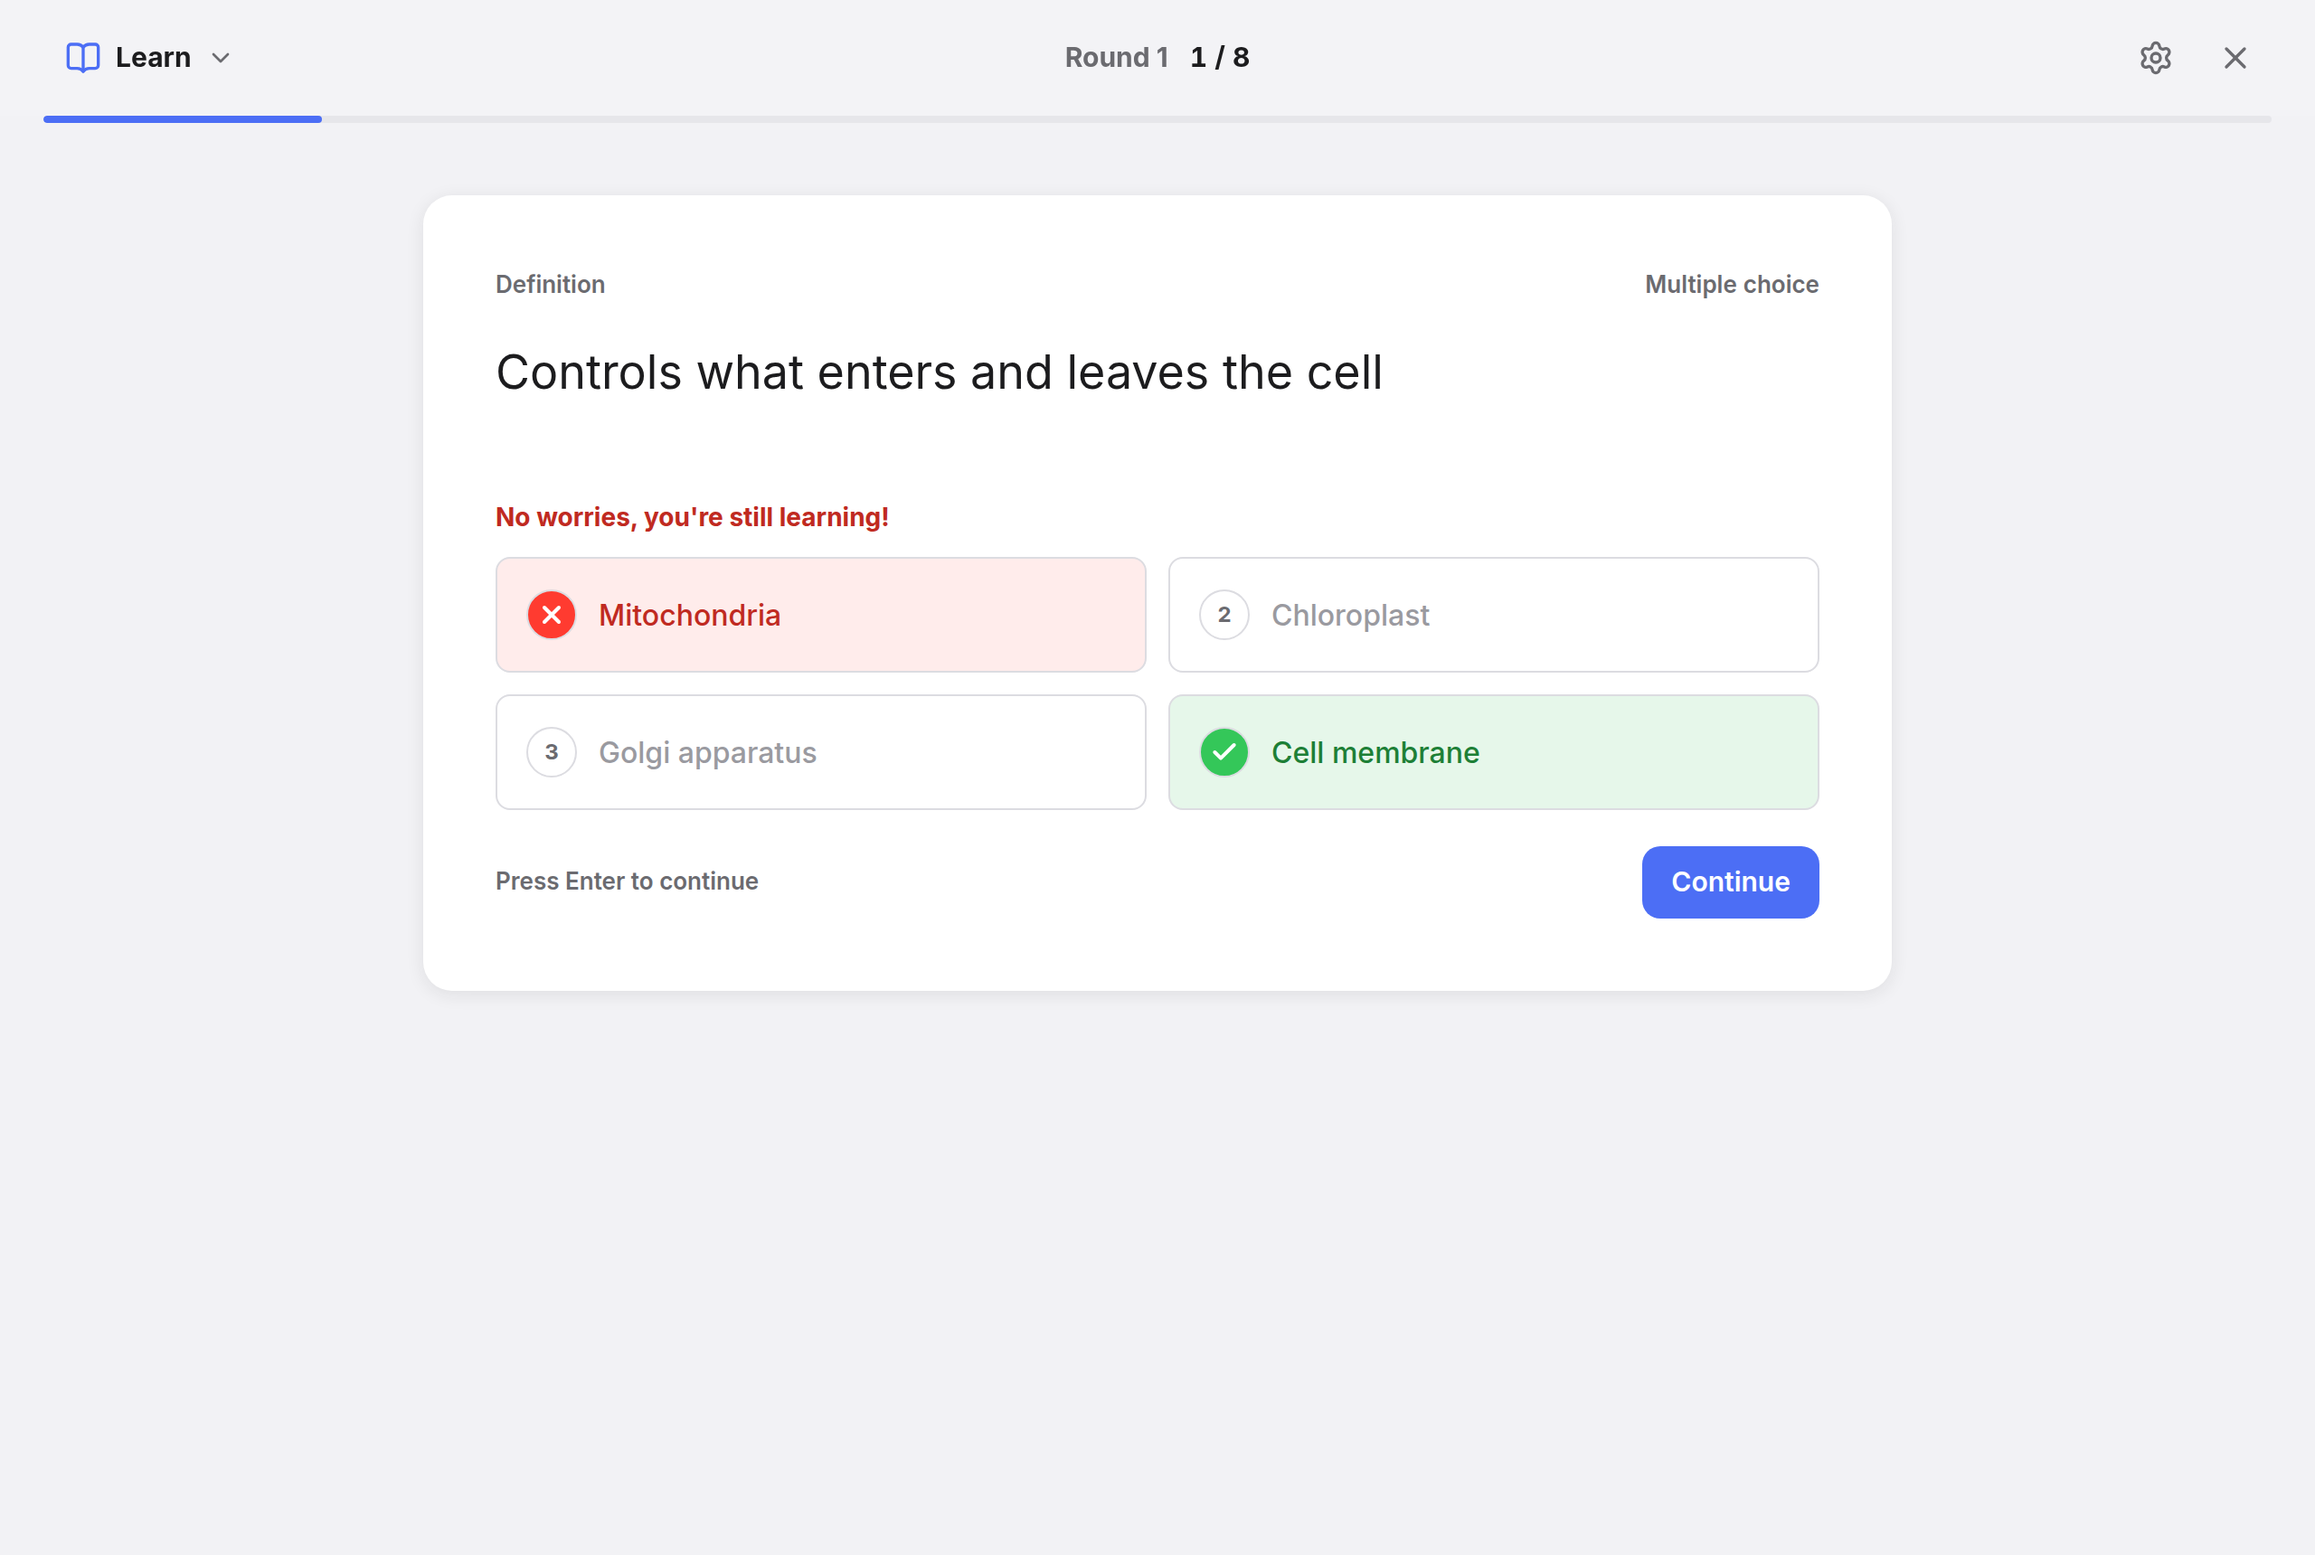
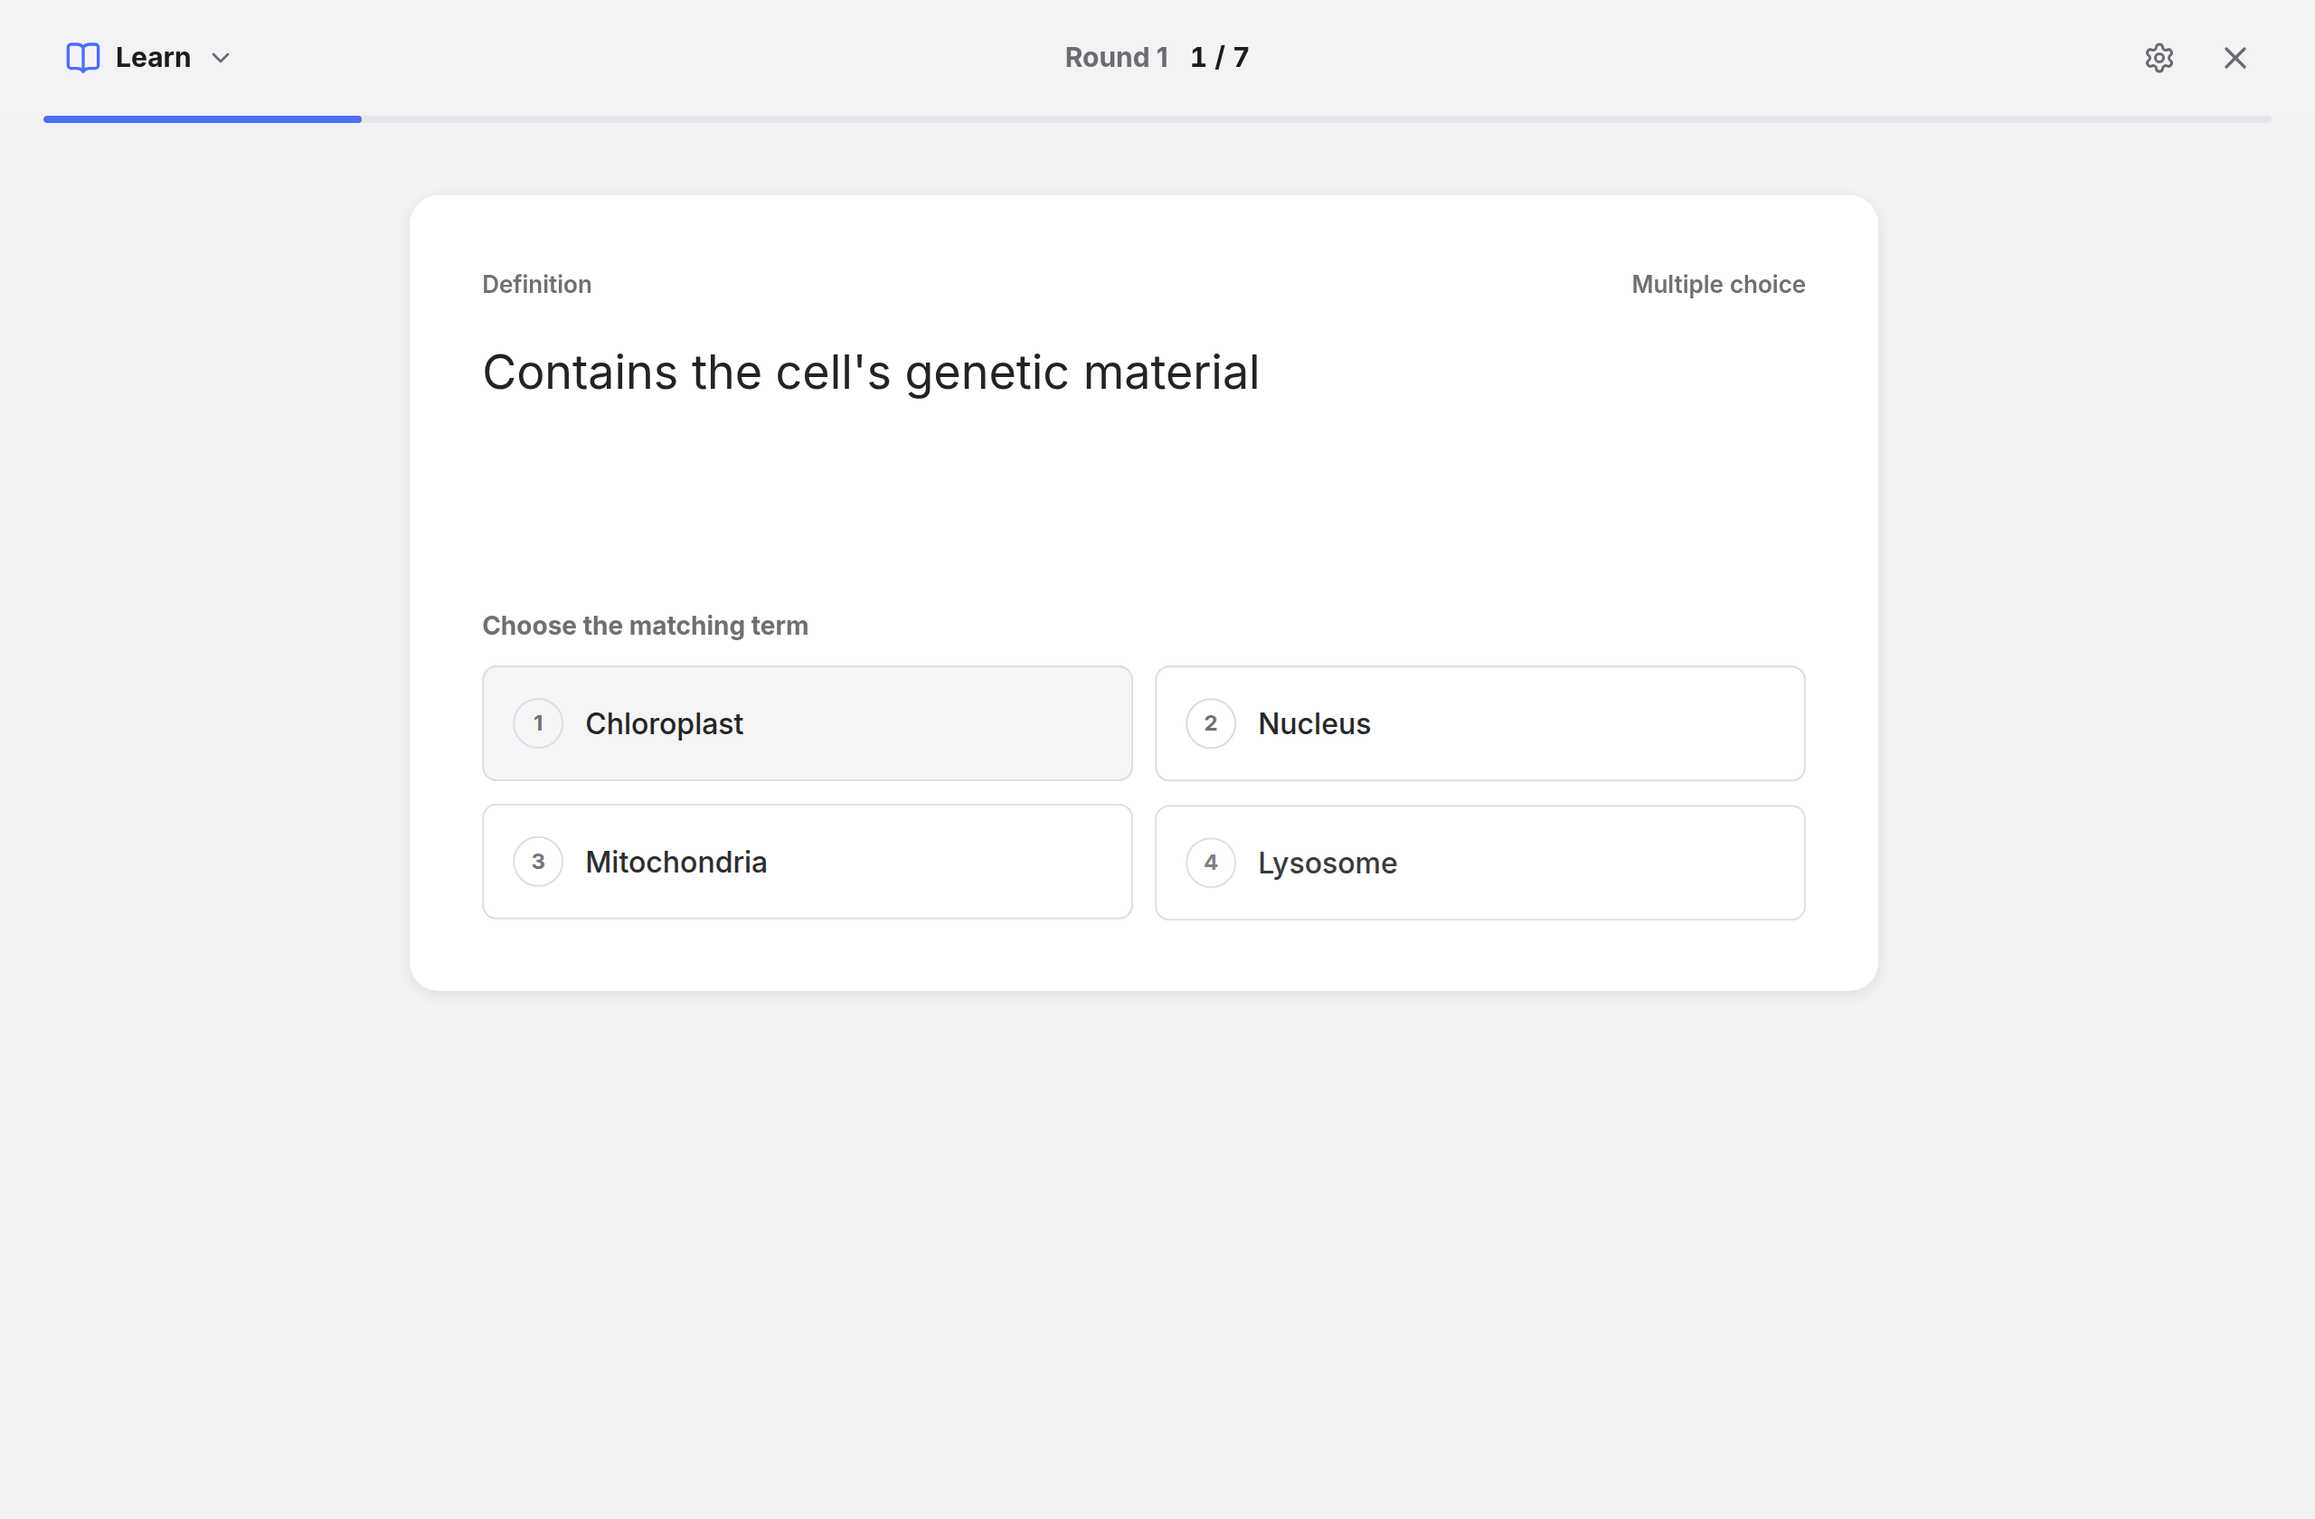
Flatten the type and tighten the control scale (#24)
Two corrections from looking at the build next to the reference.

Nunito was the wrong call. Notability's headings are heavy and tightly tracked
but their terminals are flat — a grotesque, not a soft display face. Rounded
terminals read as a friendlier, different product. Headings now come from Inter
at 800 with -0.03em tracking, which gets the weight and density without the
roundness, and drops a whole second font payload from the bundle.

Controls were sized for a tablet and read oversized on a desktop viewport:
buttons went 40px to 36px, icon buttons 40 to 36, the hero heading 34px to
26px, and the quick-action tiles lost about a third of their padding. The
proportion of control height to viewport now matches the reference rather than
being roughly twice it.

Claude-Session: https://claude.ai/code/session_018SGiJHLPSG3gjpcWv9oiY4

diff --git a/src/features/library/HomeHero.tsx b/src/features/library/HomeHero.tsx
@@ -60,41 +60,41 @@ export function HomeHero({
       variants={stagger(0.05)}
       initial="hidden"
       animate="show"
-      className="mx-auto max-w-[760px] pb-10 pt-4 text-center"
+      className="mx-auto max-w-[680px] pb-8 pt-2 text-center"
       aria-label="Get started"
     >
       <motion.div variants={riseIn} className="flex justify-center">
-        <span className="flex h-16 w-16 items-center justify-center rounded-[18px] bg-[var(--brand-soft)] text-[var(--brand)]">
-          <NotebookPen className="h-8 w-8" aria-hidden />
+        <span className="flex h-12 w-12 items-center justify-center rounded-[14px] bg-[var(--brand-soft)] text-[var(--brand)]">
+          <NotebookPen className="h-6 w-6" aria-hidden />
         </span>
       </motion.div>
 
-      <motion.h1 variants={riseIn} className="mt-4 text-[34px] leading-[1.1]">
+      <motion.h1 variants={riseIn} className="mt-3 text-[26px] leading-[1.15]">
         Let&rsquo;s get started
       </motion.h1>
 
-      <motion.p variants={riseIn} className="mx-auto mt-2 max-w-[520px] text-[15px] text-[var(--text-muted)]">
+      <motion.p variants={riseIn} className="mx-auto mt-1.5 max-w-[460px] text-[13px] leading-relaxed text-[var(--text-muted)]">
         &ldquo;{quote.text}&rdquo; &mdash; {quote.who}
       </motion.p>
 
       <motion.div
         variants={riseIn}
-        className="mt-7 grid grid-cols-1 gap-3 sm:grid-cols-3"
+        className="mt-6 grid grid-cols-1 gap-2.5 sm:grid-cols-3"
       >
         {actions.map((a) => (
           <button
             key={a.sub}
             onClick={a.run}
             className={cn(
-              "group flex flex-col items-center gap-2 rounded-[16px] border px-4 py-6",
+              "group flex flex-col items-center gap-1.5 rounded-[13px] border px-3 py-4",
               "transition-transform duration-150 hover:-translate-y-[2px] active:translate-y-0",
               TINTS[a.tint],
             )}
           >
-            <span className="[&>svg]:h-6 [&>svg]:w-6" aria-hidden>
+            <span className="[&>svg]:h-[18px] [&>svg]:w-[18px]" aria-hidden>
               {a.icon}
             </span>
-            <span className="font-[family-name:var(--font-display)] text-[17px] font-extrabold leading-tight">
+            <span className="text-[13.5px] font-extrabold leading-tight tracking-[-0.02em]">
               {a.label}
               <br />
               {a.sub}
@@ -106,7 +106,7 @@ export function HomeHero({
       <motion.button
         variants={riseIn}
         onClick={onImport}
-        className="mt-4 inline-flex items-center gap-1.5 text-[13px] font-semibold text-[var(--text-muted)] transition-colors hover:text-[var(--brand)]"
+        className="mt-3.5 inline-flex items-center gap-1.5 text-[12.5px] font-semibold text-[var(--text-muted)] transition-colors hover:text-[var(--brand)]"
       >
         <Download className="h-4 w-4" aria-hidden />
         Restore from a backup

diff --git a/src/app/layout.tsx b/src/app/layout.tsx
@@ -1,25 +1,19 @@
 import type { Metadata, Viewport } from "next";
-import { Inter, Nunito } from "next/font/google";
+import { Inter } from "next/font/google";
 import { ThemeProvider, themeScript } from "@/components/theme/ThemeProvider";
 import { Toaster } from "@/components/ui";
 import "./globals.css";
 
-// Two faces, because Notability uses two. Headings are a heavy rounded display
-// type — that chunky friendliness is the interface's loudest signal, and Nunito
-// is the closest open match for it. Body copy stays on a neutral grotesque so
-// long lists and note titles read cleanly at small sizes.
+// One family, two jobs. Notability's headings are heavy and tightly tracked but
+// their terminals are flat, not rounded — a grotesque, not a soft display face.
+// Inter at 800 with negative tracking gets that weight and density; anything
+// rounded reads as a different, friendlier product than the reference.
 //
-// next/font self-hosts both, so there are still no runtime font requests.
-const display = Nunito({
+// next/font self-hosts it, so there are still no runtime font requests, and
+// dropping the second family takes a whole font payload out of the bundle.
+const inter = Inter({
   subsets: ["latin"],
-  weight: ["700", "800", "900"],
-  variable: "--font-display",
-  display: "swap",
-});
-
-const body = Inter({
-  subsets: ["latin"],
-  weight: ["400", "500", "600", "700"],
+  weight: ["400", "500", "600", "700", "800"],
   variable: "--font-body",
   display: "swap",
 });
@@ -46,7 +40,7 @@ export const viewport: Viewport = {
 
 export default function RootLayout({ children }: { children: React.ReactNode }) {
   return (
-    <html lang="en" className={`${display.variable} ${body.variable}`} suppressHydrationWarning>
+    <html lang="en" className={inter.variable} suppressHydrationWarning>
       <head>
         <script dangerouslySetInnerHTML={{ __html: themeScript }} />
       </head>

diff --git a/src/app/globals.css b/src/app/globals.css
@@ -200,7 +200,7 @@
   --color-chrome-border: var(--chrome-border);
 
   --font-sans: var(--font-body), ui-sans-serif, system-ui, sans-serif;
-  --font-display: var(--font-display), var(--font-body), ui-sans-serif, sans-serif;
+  --font-display: var(--font-body), ui-sans-serif, system-ui, sans-serif;
 
   --shadow-card: var(--shadow-sm);
   --shadow-pop: var(--shadow-md);
@@ -235,16 +235,14 @@ body {
   overscroll-behavior-y: none;
 }
 
-/* Headings carry Notability's voice: a heavy rounded display face, set tight.
-   This is the single strongest signal of the interface, so it is applied
-   globally rather than per component. */
+/* Headings are heavy and tightly tracked, with flat terminals. The density
+   comes from weight and negative tracking rather than from a rounded face. */
 h1,
 h2,
 h3,
 h4 {
-  font-family: var(--font-display), ui-sans-serif, system-ui, sans-serif;
   font-weight: 800;
-  letter-spacing: -0.02em;
+  letter-spacing: -0.03em;
 }
 
 :focus-visible {

diff --git a/src/components/ui/Segmented.tsx b/src/components/ui/Segmented.tsx
@@ -66,7 +66,7 @@ export function Segmented<T extends string>({
         }
       }}
       className={cn(
-        "relative inline-flex items-center gap-1 rounded-full bg-[var(--surface-2)] p-1",
+        "relative inline-flex items-center gap-0.5 rounded-full bg-[var(--surface-2)] p-[3px]",
         className,
       )}
     >
@@ -81,8 +81,8 @@ export function Segmented<T extends string>({
             tabIndex={selected ? 0 : -1}
             onClick={() => onChange(o.value)}
             className={cn(
-              "relative z-10 inline-flex items-center gap-2 rounded-full px-4 py-2",
-              "text-[14px] font-bold transition-colors duration-150",
+              "relative z-10 inline-flex items-center gap-1.5 rounded-full px-3 py-1.5",
+              "text-[13px] font-semibold transition-colors duration-150",
               selected ? "text-[var(--text)]" : "text-[var(--text-muted)] hover:text-[var(--text)]",
             )}
           >

diff --git a/src/components/ui/Button.tsx b/src/components/ui/Button.tsx
@@ -21,7 +21,7 @@ export interface ButtonProps extends ButtonHTMLAttributes<HTMLButtonElement> {
  * feedback is a tint change, the way iOS controls behave.
  */
 const base =
-  "relative inline-flex items-center justify-center gap-2 rounded-[10px] font-semibold " +
+  "relative inline-flex items-center justify-center gap-1.5 rounded-[9px] font-semibold " +
   "select-none whitespace-nowrap transition-[transform,background-color,border-color,opacity] " +
   "duration-150 ease-[cubic-bezier(0.4,0,0.2,1)] " +
   "disabled:pointer-events-none disabled:opacity-40 " +
@@ -38,9 +38,9 @@ const variants: Record<Variant, string> = {
 };
 
 const sizes: Record<Size, string> = {
-  sm: "h-8 px-3 text-[13px]",
-  md: "h-10 px-4 text-[15px]",
-  lg: "h-12 px-6 text-[16px]",
+  sm: "h-7 px-2.5 text-[12px]",
+  md: "h-9 px-3.5 text-[13.5px]",
+  lg: "h-10 px-5 text-[15px]",
 };
 
 export const Button = forwardRef<HTMLButtonElement, ButtonProps>(function Button(

diff --git a/src/features/library/LibrarySearch.tsx b/src/features/library/LibrarySearch.tsx
@@ -37,8 +37,8 @@ export function LibrarySearch() {
         aria-label="Search notes and sets by title"
         autoComplete="off"
         className={cn(
-          "h-10 w-full rounded-[10px] border border-[var(--border)] bg-[var(--surface)] pl-10 pr-10",
-          "text-[15px] text-[var(--text)] placeholder:text-[var(--text-faint)]",
+          "h-9 w-full rounded-[9px] border border-[var(--border)] bg-[var(--surface)] pl-10 pr-10",
+          "text-[13.5px] text-[var(--text)] placeholder:text-[var(--text-faint)]",
           "outline-none transition-colors focus:border-[var(--brand)]",
           "[&::-webkit-search-cancel-button]:hidden",
         )}

diff --git a/src/components/ui/IconButton.tsx b/src/components/ui/IconButton.tsx
@@ -12,9 +12,9 @@ export interface IconButtonProps extends ButtonHTMLAttributes<HTMLButtonElement>
 }
 
 const sizes = {
-  sm: "h-8 w-8 [&>svg]:h-4 [&>svg]:w-4",
-  md: "h-10 w-10 [&>svg]:h-5 [&>svg]:w-5",
-  lg: "h-12 w-12 [&>svg]:h-6 [&>svg]:w-6",
+  sm: "h-7 w-7 [&>svg]:h-[15px] [&>svg]:w-[15px]",
+  md: "h-9 w-9 [&>svg]:h-[18px] [&>svg]:w-[18px]",
+  lg: "h-10 w-10 [&>svg]:h-5 [&>svg]:w-5",
 };
 
 export const IconButton = forwardRef<HTMLButtonElement, IconButtonProps>(

diff --git a/src/components/shell/AppShell.tsx b/src/components/shell/AppShell.tsx
@@ -55,7 +55,7 @@ export function AppShell({
               aria-label="FreeNote home"
             >
               <Image src="/icon.svg" alt="" width={28} height={28} priority className="rounded-[7px]" />
-              <span className="font-[family-name:var(--font-display)] text-[20px] font-extrabold tracking-[-0.03em]">
+              <span className="text-[18px] font-extrabold tracking-[-0.03em]">
                 FreeNote
               </span>
             </Link>
